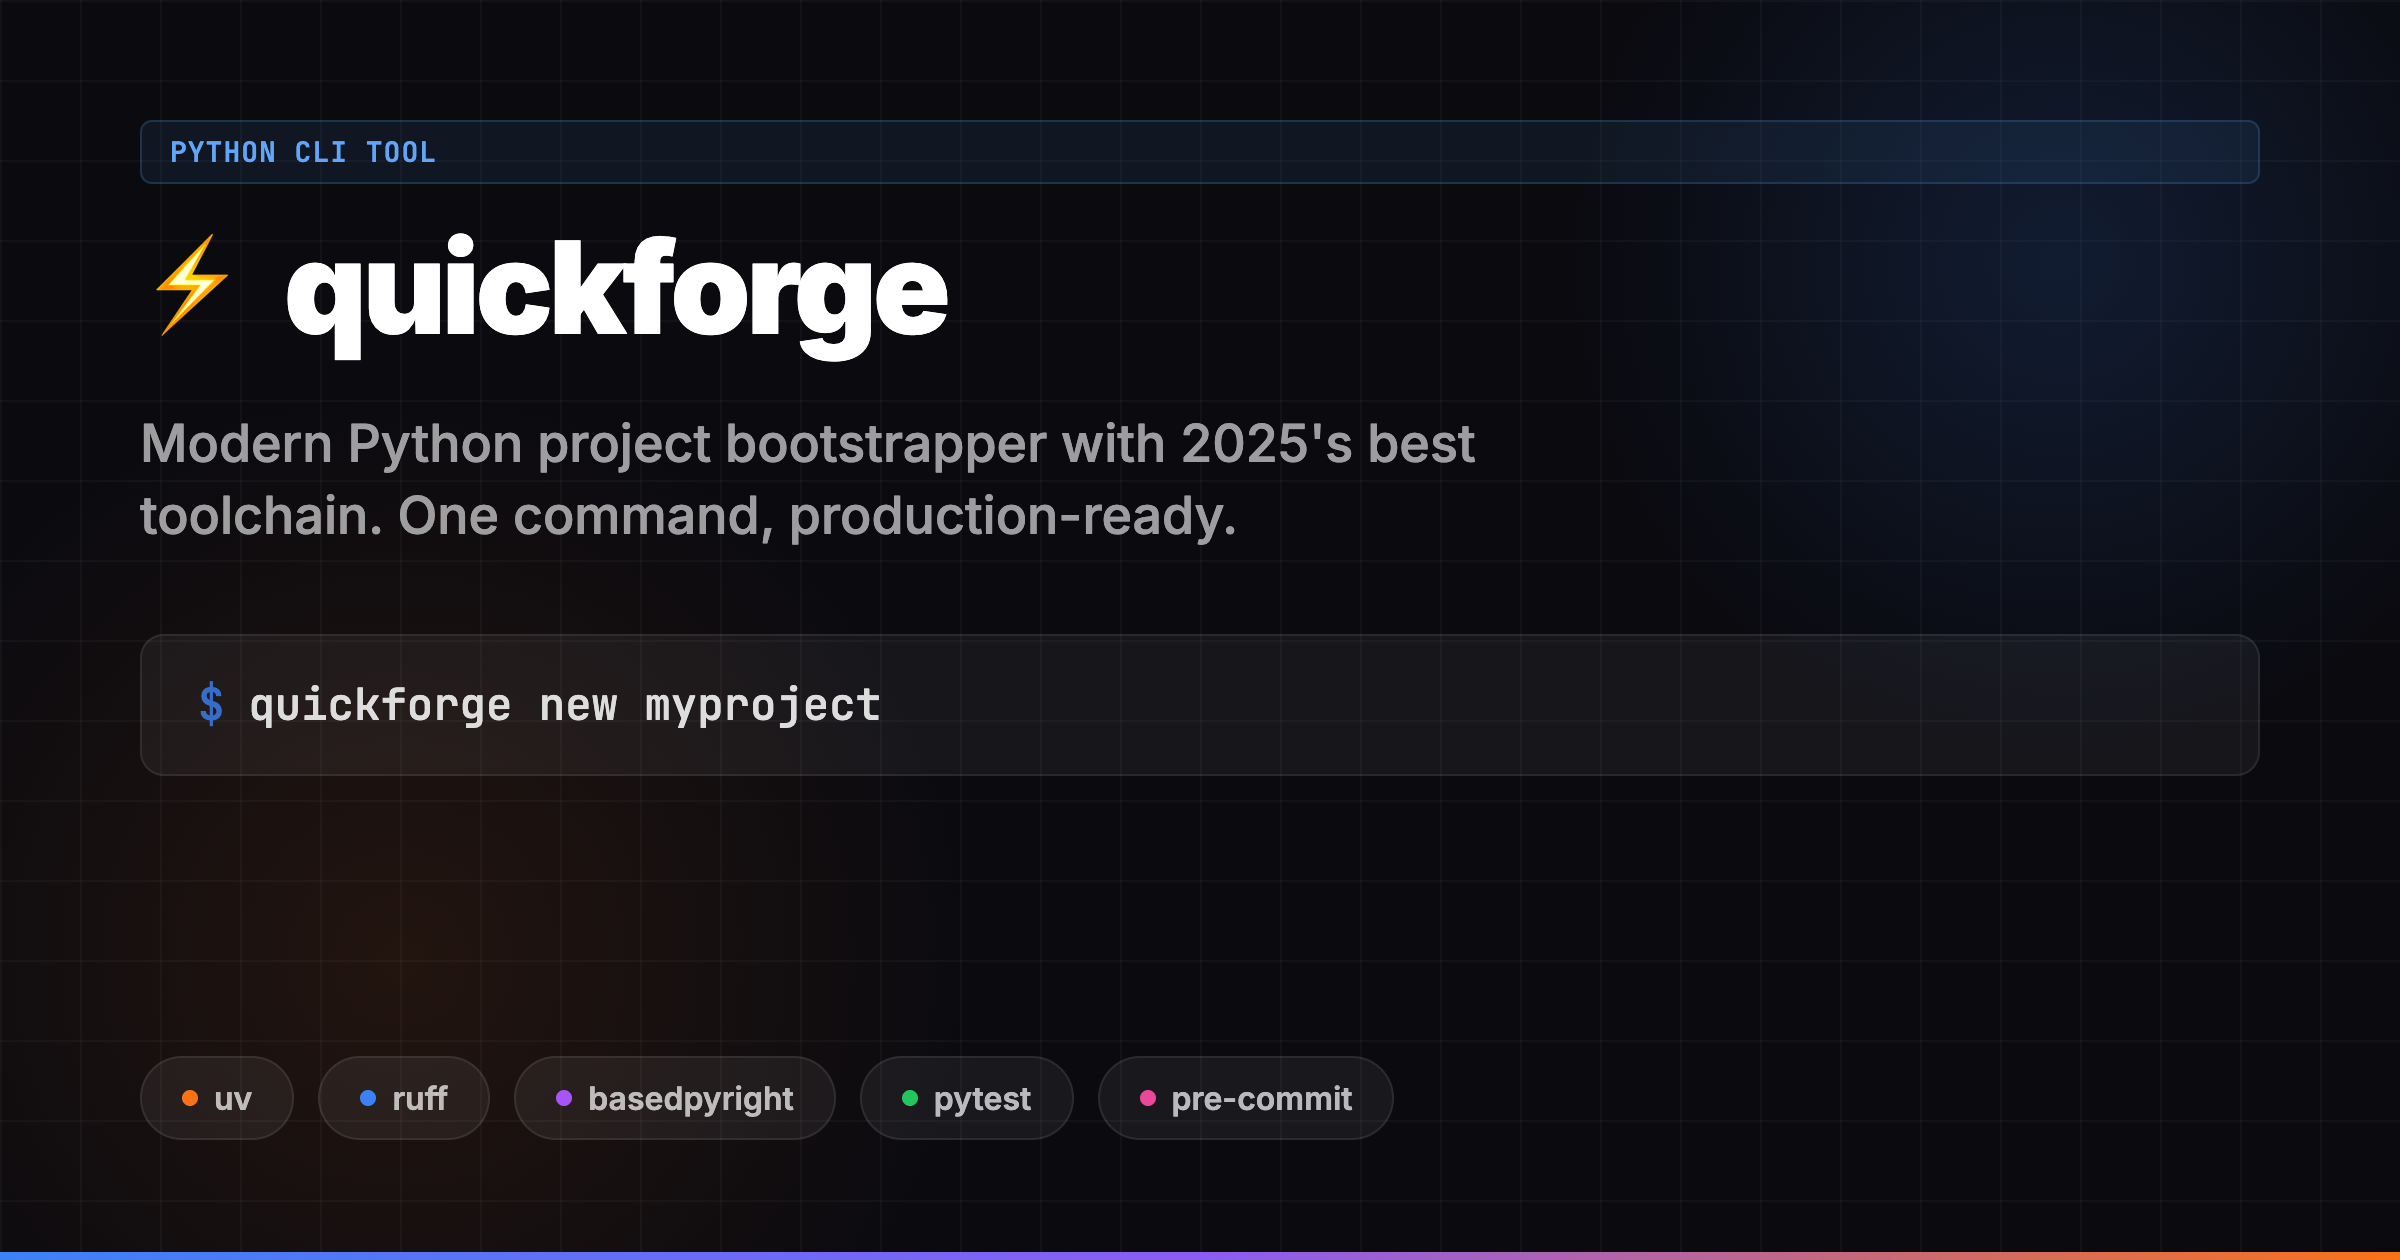
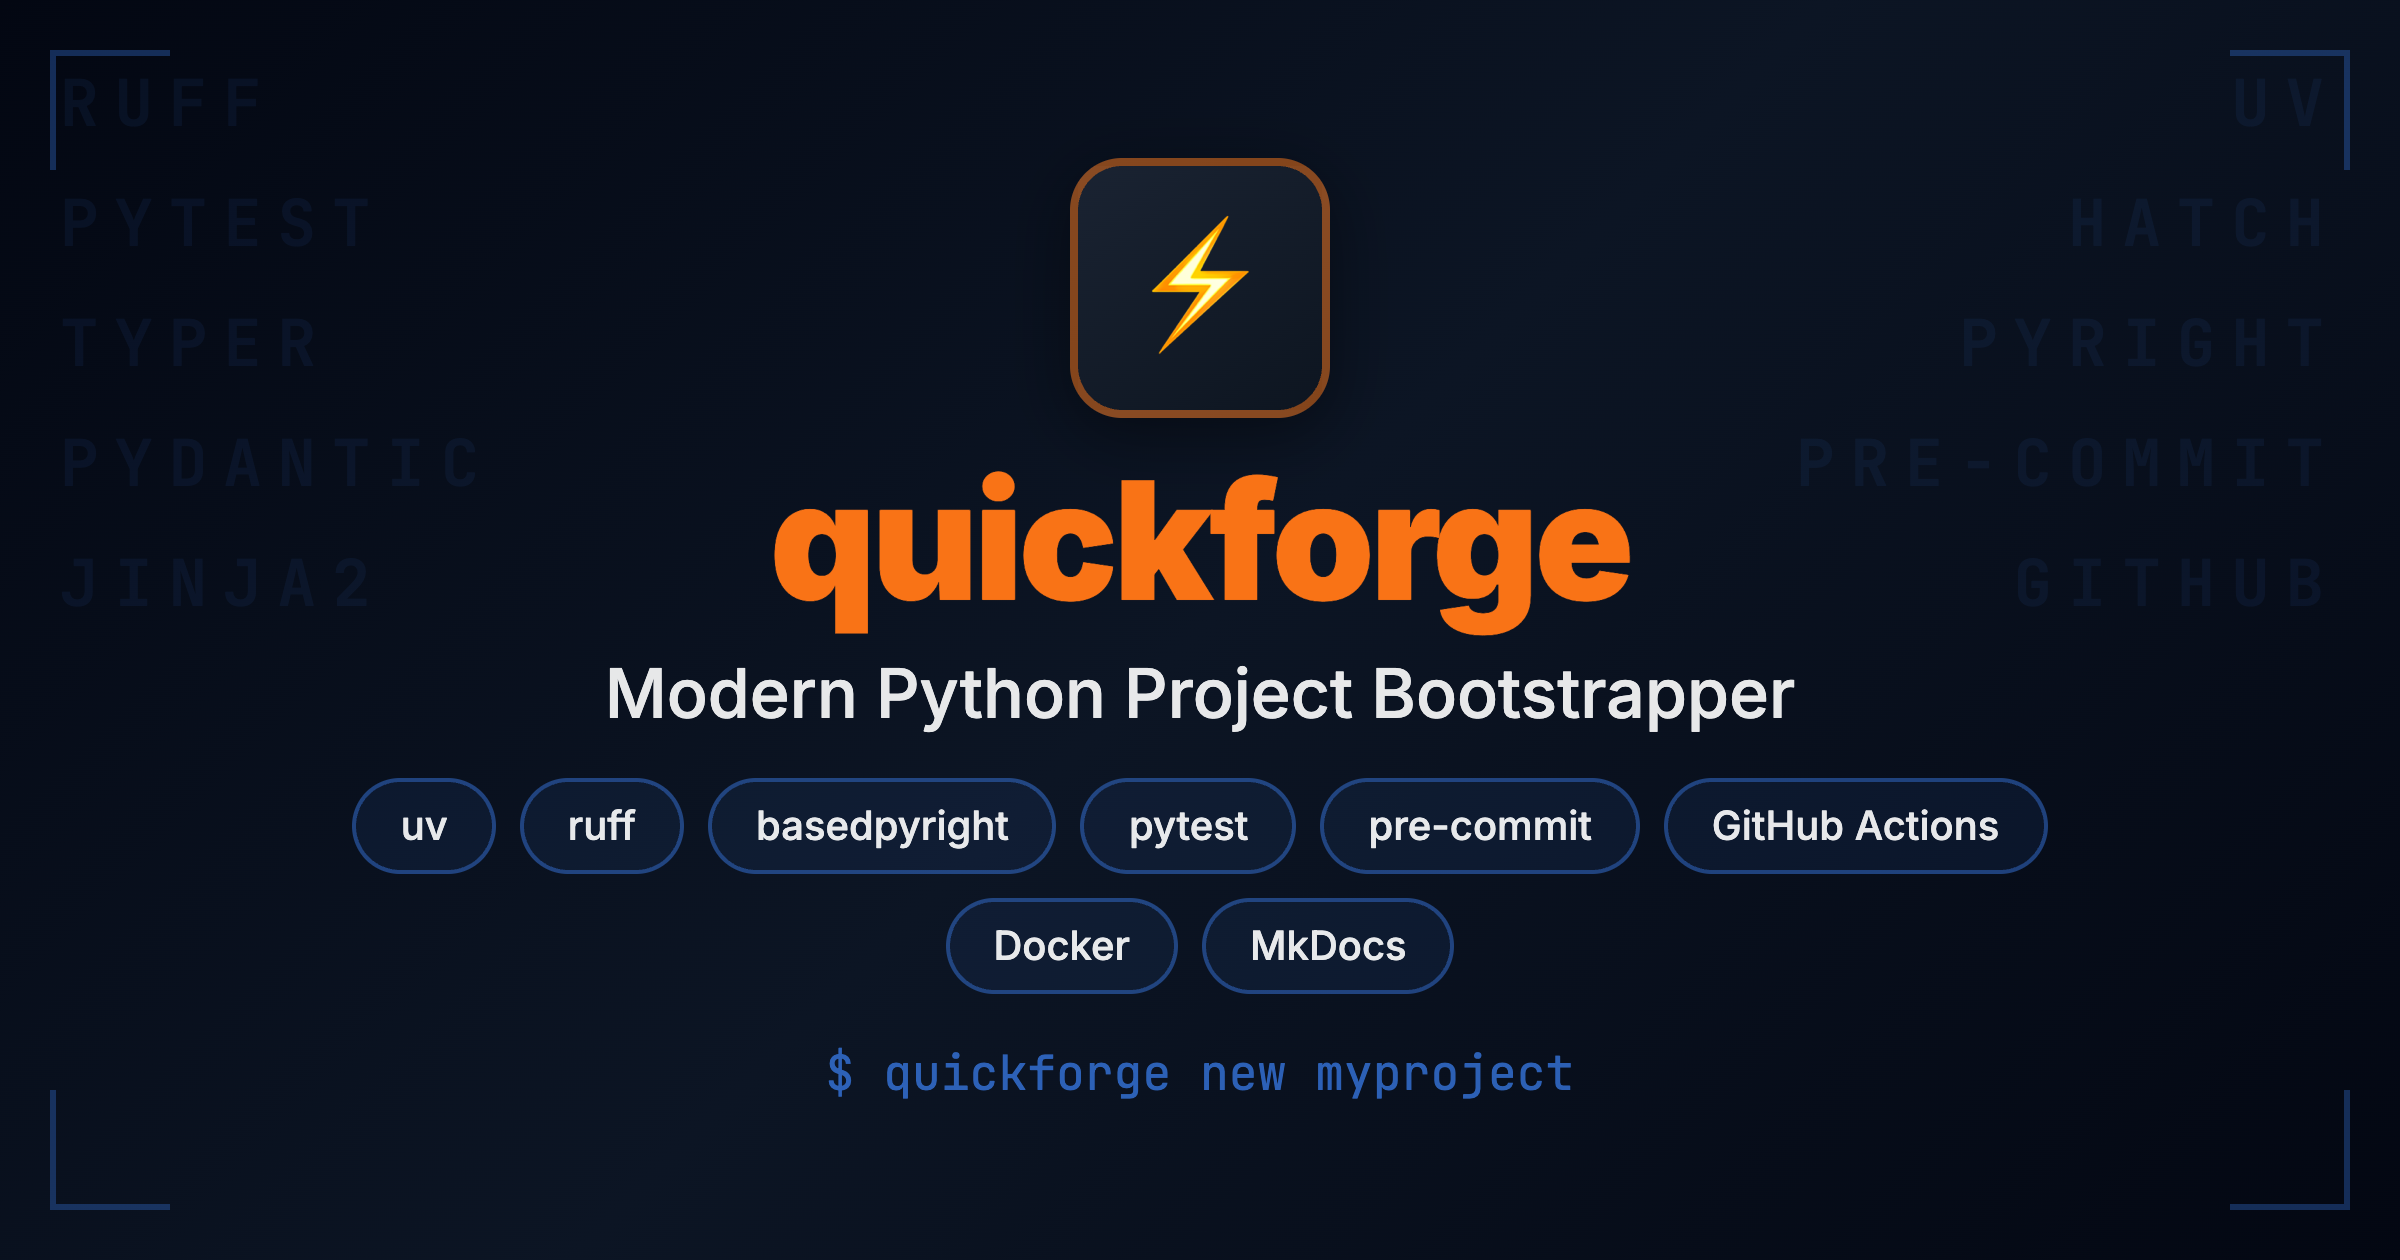
Redesign OG preview image with centered layout
Match the MasterCode/NATO-trainer design style: centered content,
larger text (82px title, 34px tagline), icon box, background keyword
watermarks, corner brackets, and feature pills in centered rows.

Generated with [Claude Code](https://claude.ai/code)
via [Happy](https://happy.engineering)

diff --git a/og-gen/og-home.html b/og-gen/og-home.html
@@ -4,179 +4,189 @@
   <meta charset="UTF-8">
   <style>
     @import url('https://fonts.googleapis.com/css2?family=Inter:wght@400;500;600;700;800;900&family=JetBrains+Mono:wght@400;500;600&display=swap');
-    * { margin: 0; padding: 0; box-sizing: border-box; }
-    .og-card {
+
+    * {
+      margin: 0;
+      padding: 0;
+      box-sizing: border-box;
+    }
+
+    html, body {
       width: 1200px;
       height: 630px;
-      background: #0a0a0f;
-      position: relative;
+      min-height: 630px;
+      max-height: 630px;
+      margin: 0;
+      padding: 0;
       overflow: hidden;
+    }
+
+    body {
+      background: linear-gradient(135deg, #030712 0%, #0c1524 50%, #030712 100%);
+      font-family: 'Inter', -apple-system, BlinkMacSystemFont, sans-serif;
       display: flex;
       flex-direction: column;
-      padding: 60px 70px;
-      font-family: 'Inter', system-ui, sans-serif;
-    }
-    .og-card::before {
-      content: '';
-      position: absolute;
-      inset: 0;
-      background-image:
-        linear-gradient(rgba(255,255,255,0.03) 1px, transparent 1px),
-        linear-gradient(90deg, rgba(255,255,255,0.03) 1px, transparent 1px);
-      background-size: 40px 40px;
-    }
-    .glow-1 {
-      position: absolute;
-      top: -120px;
-      right: -80px;
-      width: 500px;
-      height: 500px;
-      background: radial-gradient(circle, rgba(59, 130, 246, 0.15) 0%, transparent 70%);
-      pointer-events: none;
-    }
-    .glow-2 {
-      position: absolute;
-      bottom: -150px;
-      left: -100px;
-      width: 600px;
-      height: 600px;
-      background: radial-gradient(circle, rgba(249, 115, 22, 0.10) 0%, transparent 70%);
-      pointer-events: none;
-    }
-    .top-section {
+      align-items: center;
+      justify-content: center;
       position: relative;
-      z-index: 1;
+    }
+
+    /* Background keywords - left side */
+    .bg-words {
+      position: absolute;
+      font-size: 32px;
+      font-weight: 700;
+      color: rgba(59, 130, 246, 0.07);
+      letter-spacing: 8px;
+      text-transform: uppercase;
+      font-family: 'JetBrains Mono', monospace;
+    }
+    .bg-left { left: 30px; }
+    .bg-right { right: 30px; text-align: right; }
+    .bg-words:nth-child(1) { top: 30px; }
+    .bg-words:nth-child(2) { top: 90px; }
+    .bg-words:nth-child(3) { top: 150px; }
+    .bg-words:nth-child(4) { top: 210px; }
+    .bg-words:nth-child(5) { top: 270px; }
+    .bg-words:nth-child(6) { top: 30px; }
+    .bg-words:nth-child(7) { top: 90px; }
+    .bg-words:nth-child(8) { top: 150px; }
+    .bg-words:nth-child(9) { top: 210px; }
+    .bg-words:nth-child(10) { top: 270px; }
+
+    /* Corner brackets */
+    .corner {
+      position: absolute;
+      width: 60px;
+      height: 60px;
+      border: 3px solid rgba(59, 130, 246, 0.3);
+    }
+    .corner-tl { top: 25px; left: 25px; border-right: none; border-bottom: none; }
+    .corner-tr { top: 25px; right: 25px; border-left: none; border-bottom: none; }
+    .corner-bl { bottom: 25px; left: 25px; border-right: none; border-top: none; }
+    .corner-br { bottom: 25px; right: 25px; border-left: none; border-top: none; }
+
+    /* Main content container */
+    .logo-container {
+      display: flex;
+      flex-direction: column;
+      align-items: center;
+      justify-content: center;
+      z-index: 10;
+      flex: 1;
+      width: 100%;
+      padding: 40px 0;
+    }
+
+    /* Icon box */
+    .icon-box {
+      width: 130px;
+      height: 130px;
+      background: linear-gradient(145deg, #1a2332, #0d1520);
+      border: 4px solid rgba(249, 115, 22, 0.5);
+      border-radius: 26px;
       display: flex;
       align-items: center;
-      gap: 20px;
-      margin-bottom: 28px;
+      justify-content: center;
+      margin-bottom: 12px;
+      box-shadow: 0 8px 32px rgba(0, 0, 0, 0.4);
     }
-    .icon { font-size: 52px; line-height: 1; }
-    .title {
-      font-size: 64px;
-      font-weight: 900;
-      color: #ffffff;
-      letter-spacing: -2px;
+
+    .icon-text {
+      font-size: 70px;
       line-height: 1;
     }
-    .tagline {
-      position: relative;
-      z-index: 1;
-      font-size: 26px;
-      font-weight: 500;
-      color: rgba(255,255,255,0.6);
-      line-height: 1.4;
-      margin-bottom: 40px;
-      max-width: 700px;
-    }
-    .command-block {
-      position: relative;
-      z-index: 1;
-      background: rgba(255,255,255,0.05);
-      border: 1px solid rgba(255,255,255,0.08);
-      border-radius: 12px;
-      padding: 20px 28px;
-      margin-bottom: 40px;
-      display: inline-flex;
-      align-items: center;
-      gap: 12px;
-    }
-    .prompt {
-      color: rgba(59, 130, 246, 0.8);
-      font-family: 'JetBrains Mono', monospace;
-      font-size: 22px;
-      font-weight: 500;
-    }
-    .command {
-      color: rgba(255,255,255,0.85);
-      font-family: 'JetBrains Mono', monospace;
-      font-size: 22px;
-      font-weight: 500;
-    }
-    .tools-row {
-      position: relative;
-      z-index: 1;
-      display: flex;
-      gap: 12px;
-      flex-wrap: wrap;
-      margin-top: auto;
-      margin-bottom: 0;
-    }
-    .tool-pill {
-      display: flex;
-      align-items: center;
-      gap: 8px;
-      padding: 10px 20px;
-      background: rgba(255,255,255,0.06);
-      border: 1px solid rgba(255,255,255,0.08);
-      border-radius: 100px;
-      font-size: 16px;
-      font-weight: 600;
-      color: rgba(255,255,255,0.7);
+
+    /* App name */
+    .app-name {
+      font-size: 82px;
+      font-weight: 900;
+      color: #f97316;
+      letter-spacing: -2px;
+      margin-bottom: 6px;
       font-family: 'Inter', sans-serif;
     }
-    .tool-pill .dot {
-      width: 8px;
-      height: 8px;
-      border-radius: 50%;
-      flex-shrink: 0;
+
+    /* Tagline */
+    .tagline {
+      font-size: 34px;
+      color: rgba(255, 255, 255, 0.9);
+      margin-bottom: 22px;
+      font-weight: 500;
+      text-align: center;
     }
-    .dot-blue { background: #3b82f6; }
-    .dot-orange { background: #f97316; }
-    .dot-green { background: #22c55e; }
-    .dot-purple { background: #a855f7; }
-    .dot-pink { background: #ec4899; }
-    .bottom-bar {
-      position: absolute;
-      bottom: 0;
-      left: 0;
-      right: 0;
-      height: 4px;
-      background: linear-gradient(90deg, #3b82f6, #8b5cf6, #f97316);
+
+    /* Feature pills */
+    .pills-container {
+      display: flex;
+      flex-wrap: wrap;
+      justify-content: center;
+      gap: 12px;
+      max-width: 900px;
+      margin-bottom: 14px;
     }
-    .badge {
-      position: relative;
-      z-index: 1;
-      display: inline-flex;
-      align-items: center;
-      gap: 8px;
-      padding: 6px 14px;
-      background: rgba(55, 118, 171, 0.12);
-      border: 1px solid rgba(55, 118, 171, 0.3);
-      border-radius: 6px;
-      font-size: 14px;
-      font-weight: 600;
-      color: #60a5fa;
+
+    .pill {
+      padding: 10px 22px;
+      border: 2px solid rgba(59, 130, 246, 0.4);
+      border-radius: 30px;
+      color: rgba(255, 255, 255, 0.9);
+      font-size: 20px;
+      font-weight: 500;
+      background: rgba(59, 130, 246, 0.08);
+      font-family: 'Inter', sans-serif;
+    }
+
+    /* Bottom code tagline */
+    .code-tagline {
       font-family: 'JetBrains Mono', monospace;
-      margin-bottom: 20px;
-      letter-spacing: 0.5px;
+      font-size: 24px;
+      color: rgba(59, 130, 246, 0.7);
+      margin-top: 10px;
     }
   </style>
 </head>
 <body>
-  <div class="og-card">
-    <div class="glow-1"></div>
-    <div class="glow-2"></div>
-    <div class="badge">PYTHON CLI TOOL</div>
-    <div class="top-section">
-      <span class="icon">&#9889;</span>
-      <span class="title">quickforge</span>
+  <!-- Background keywords - left side -->
+  <div class="bg-words bg-left">RUFF</div>
+  <div class="bg-words bg-left">PYTEST</div>
+  <div class="bg-words bg-left">TYPER</div>
+  <div class="bg-words bg-left">PYDANTIC</div>
+  <div class="bg-words bg-left">JINJA2</div>
+
+  <!-- Background keywords - right side -->
+  <div class="bg-words bg-right">UV</div>
+  <div class="bg-words bg-right">HATCH</div>
+  <div class="bg-words bg-right">PYRIGHT</div>
+  <div class="bg-words bg-right">PRE-COMMIT</div>
+  <div class="bg-words bg-right">GITHUB</div>
+
+  <!-- Corner brackets -->
+  <div class="corner corner-tl"></div>
+  <div class="corner corner-tr"></div>
+  <div class="corner corner-bl"></div>
+  <div class="corner corner-br"></div>
+
+  <!-- Main content -->
+  <div class="logo-container">
+    <div class="icon-box">
+      <span class="icon-text">&#9889;</span>
     </div>
-    <div class="tagline">
-      Modern Python project bootstrapper with 2025's best toolchain. One command, production-ready.
+    <div class="app-name">quickforge</div>
+    <div class="tagline">Modern Python Project Bootstrapper</div>
+
+    <div class="pills-container">
+      <span class="pill">uv</span>
+      <span class="pill">ruff</span>
+      <span class="pill">basedpyright</span>
+      <span class="pill">pytest</span>
+      <span class="pill">pre-commit</span>
+      <span class="pill">GitHub Actions</span>
+      <span class="pill">Docker</span>
+      <span class="pill">MkDocs</span>
     </div>
-    <div class="command-block">
-      <span class="prompt">$</span>
-      <span class="command">quickforge new myproject</span>
-    </div>
-    <div class="tools-row">
-      <div class="tool-pill"><span class="dot dot-orange"></span>uv</div>
-      <div class="tool-pill"><span class="dot dot-blue"></span>ruff</div>
-      <div class="tool-pill"><span class="dot dot-purple"></span>basedpyright</div>
-      <div class="tool-pill"><span class="dot dot-green"></span>pytest</div>
-      <div class="tool-pill"><span class="dot dot-pink"></span>pre-commit</div>
-    </div>
-    <div class="bottom-bar"></div>
+
+    <div class="code-tagline">$ quickforge new myproject</div>
   </div>
 </body>
 </html>
